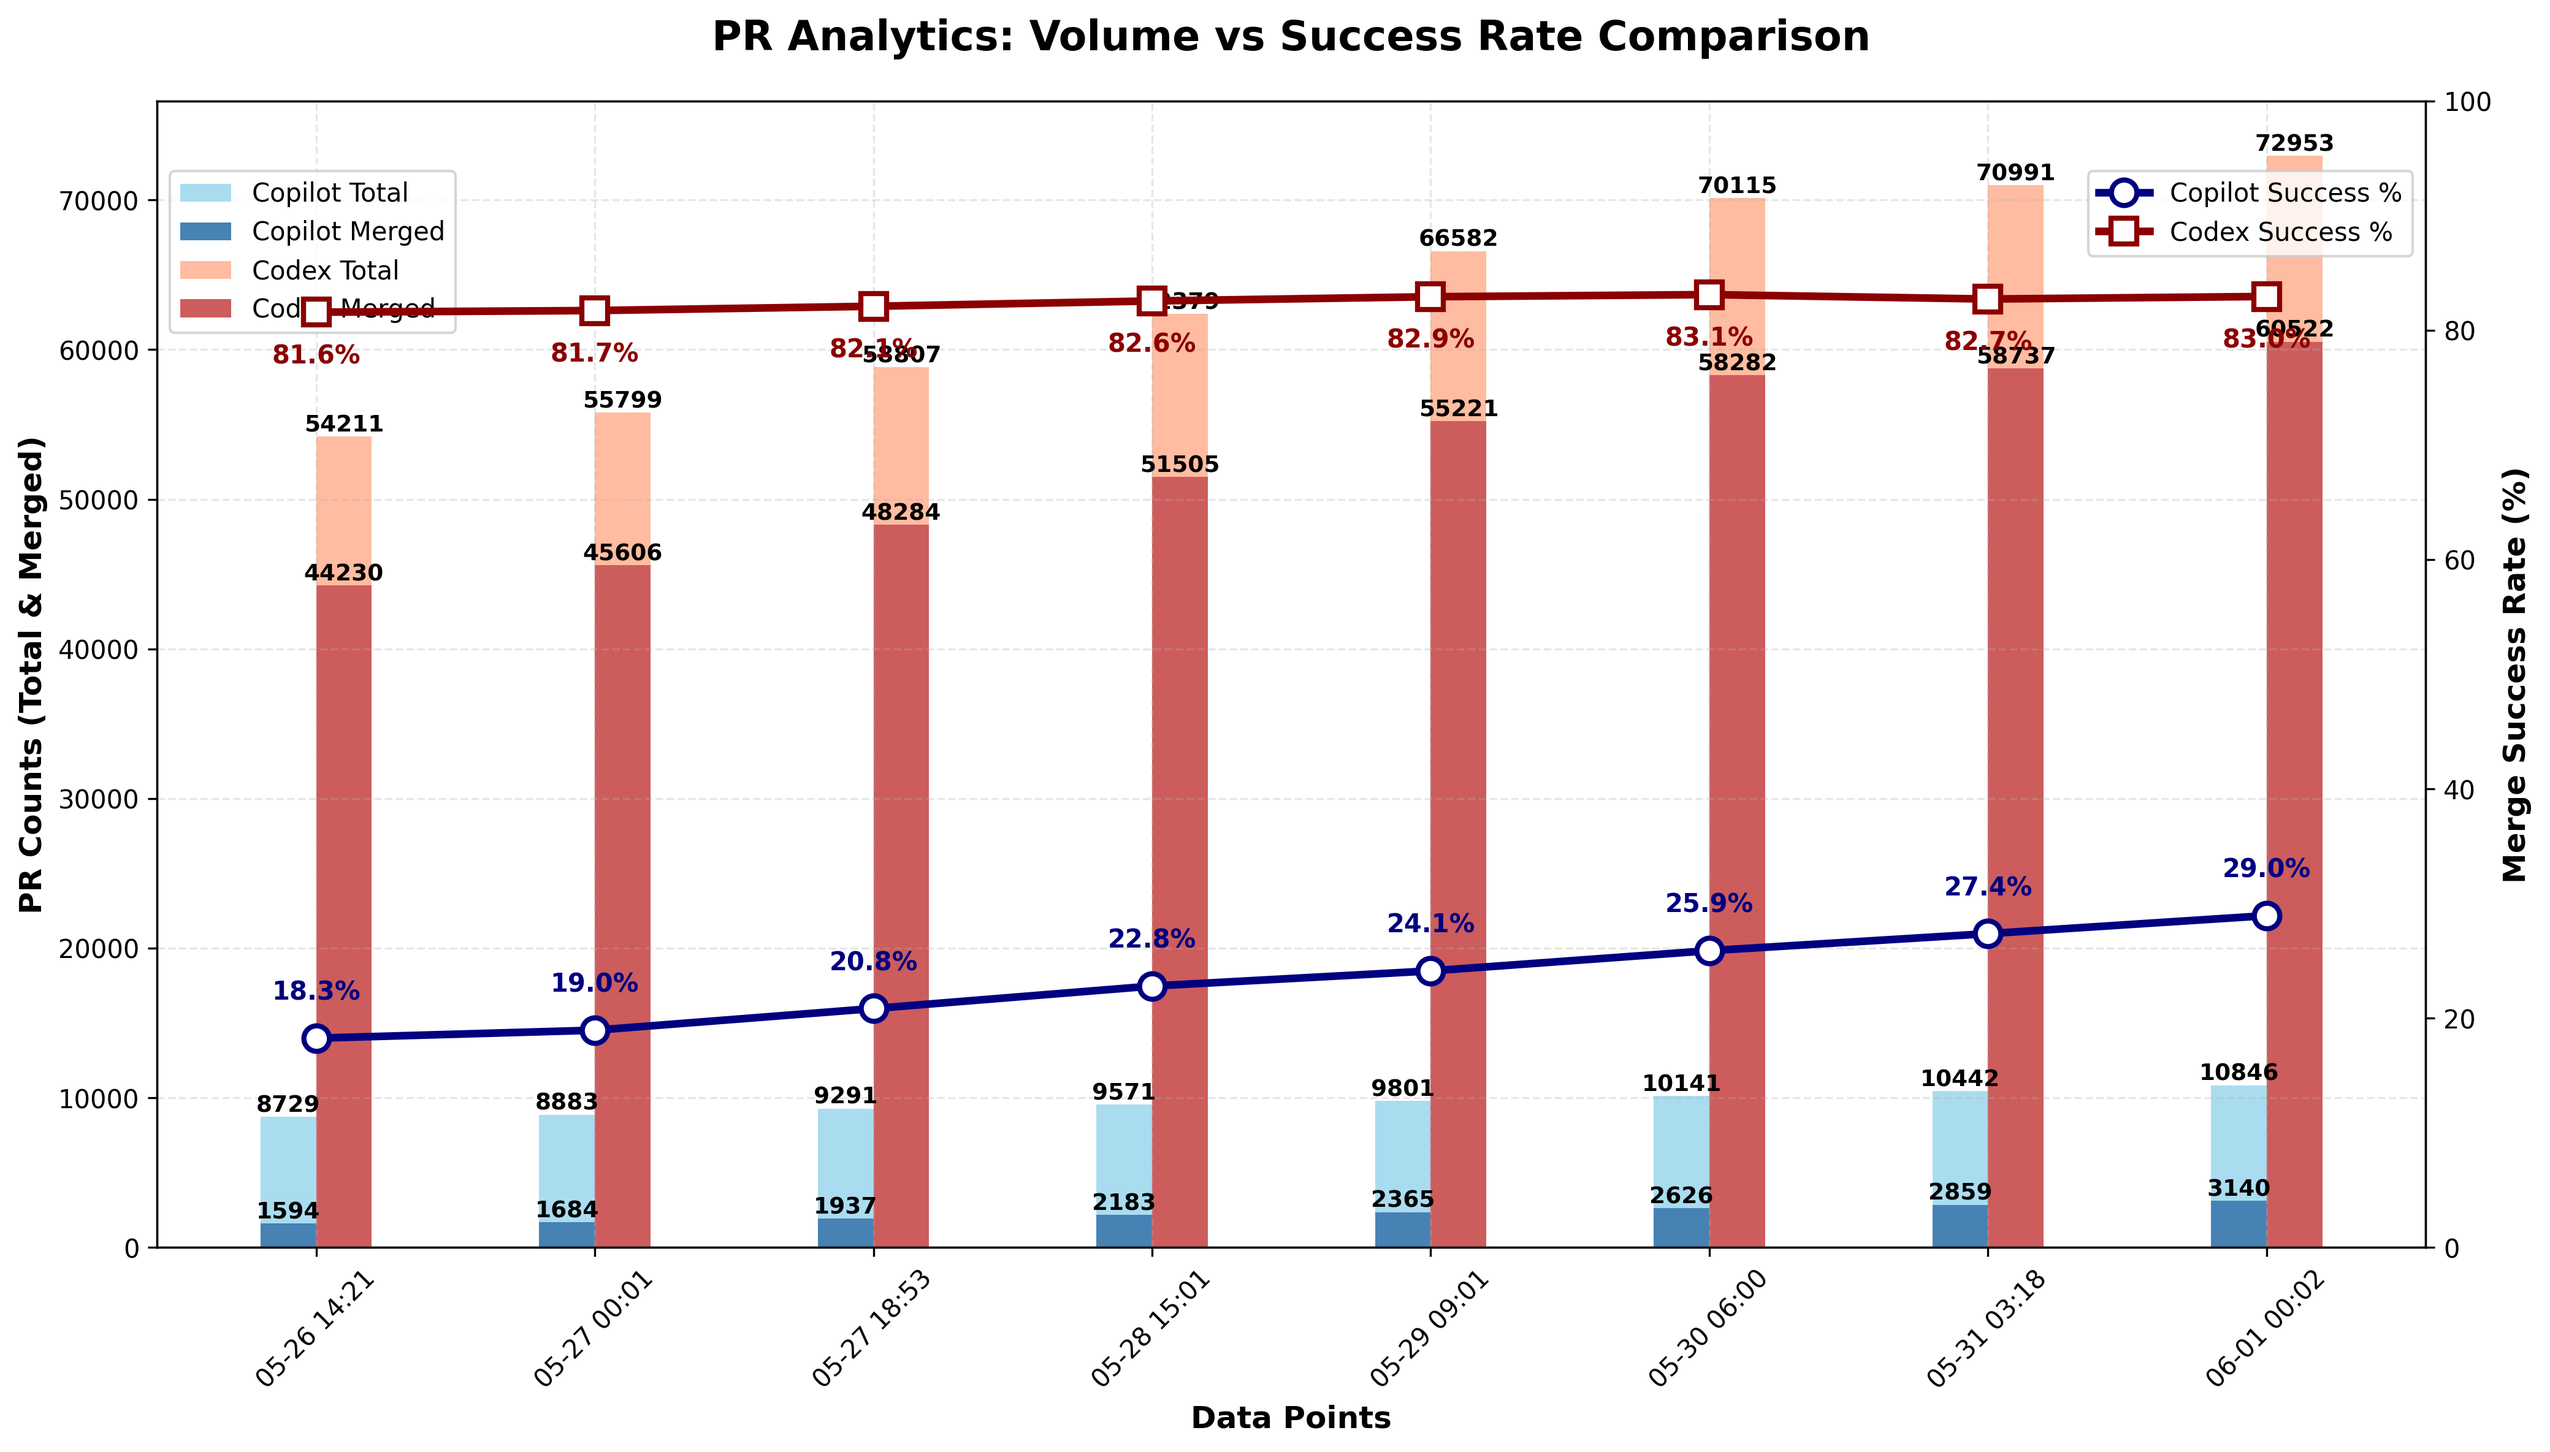
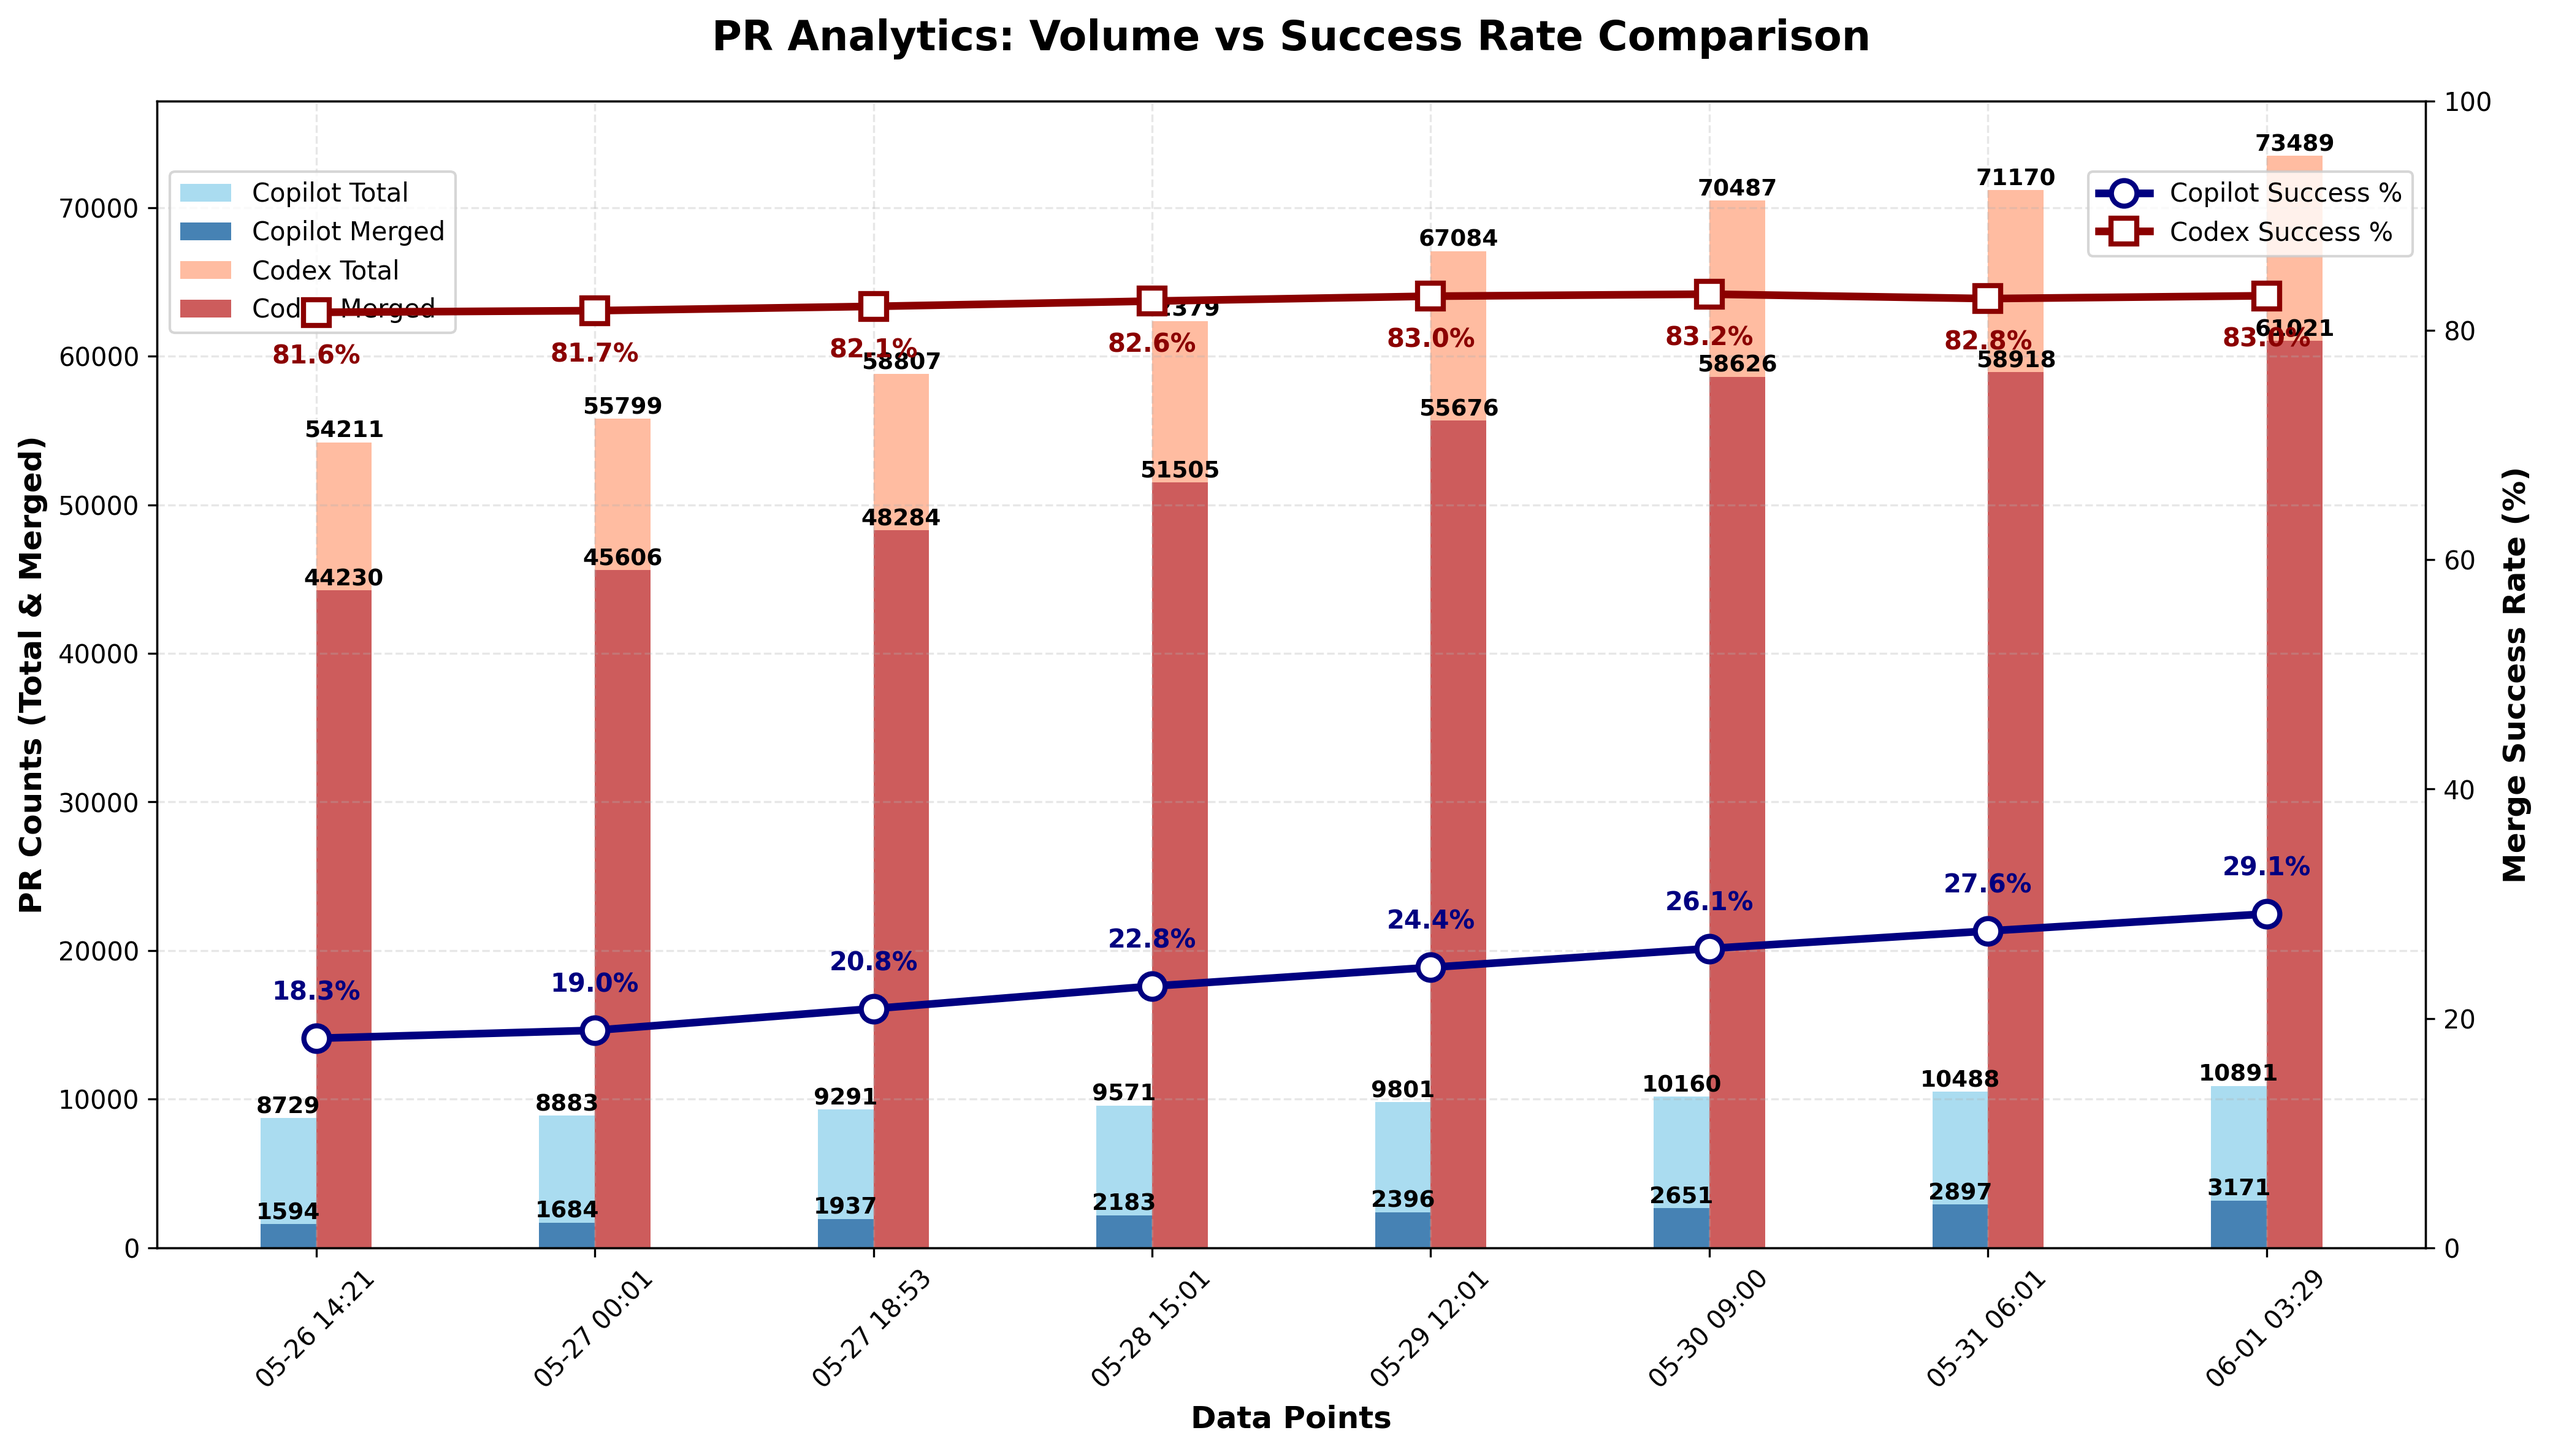
chore: update PR‑approval chart

diff --git a/docs/index.html b/docs/index.html
@@ -44,22 +44,22 @@
                 <tbody>
                     <tr>
                         <td>Copilot</td>
-                        <td>10,846</td>
-                        <td>3,140</td>
-                        <td>28.95%</td>
+                        <td>10,891</td>
+                        <td>3,171</td>
+                        <td>29.12%</td>
                     </tr>
                     <tr>
                         <td>Codex</td>
-                        <td>72,953</td>
-                        <td>60,522</td>
-                        <td>82.96%</td>
+                        <td>73,489</td>
+                        <td>61,021</td>
+                        <td>83.03%</td>
                     </tr>
                 </tbody>
             </table>
         </section>
 
         <footer>
-            <p>Last updated: <span id="last-updated">June 01, 2025 00:02 UTC</span></p>
+            <p>Last updated: <span id="last-updated">June 01, 2025 03:29 UTC</span></p>
             <p><a href="https://github.com/aavetis/ai-pr-watcher">View on GitHub</a></p>
         </footer>
     </div>

diff --git a/README.md b/README.md
@@ -19,5 +19,5 @@ Explore the GitHub search queries used:
 
 | Project | Total PRs | Merged PRs | Merge Rate |
 | ------- | --------- | ---------- | ---------- |
-| Copilot | 10,846 | 3,140 | 28.95% |
-| Codex   | 72,953 | 60,522 | 82.96% |
+| Copilot | 10,891 | 3,171 | 29.12% |
+| Codex   | 73,489 | 61,021 | 83.03% |
